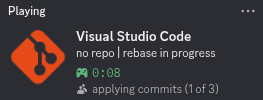
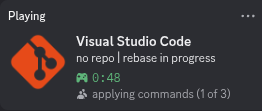
rp: fix rebase step count

diff --git a/lib/git.js b/lib/git.js
@@ -96,9 +96,11 @@ export function git_dir()
 
 export function git_rebase_backend(git)
 {
-	if (existsSync(`${git}/rebase-merge`))
+	if (existsSync(`${git}/rebase-merge/msgnum`) &&
+	    existsSync(`${git}/rebase-merge/end`))
 		return GIT_REBASE_MERGE
-	else if (existsSync(`${git}/rebase-apply/rebasing`))
+	else if (existsSync(`${git}/rebase-apply/rebasing/next`) &&
+		 existsSync(`${git}/rebase-apply/rebasing/last`))
 		return GIT_REBASE_APPLY
 }
 
@@ -106,11 +108,6 @@ export function git_rebase_step_merge(git)
 {
 	let msgnum = read_file(`${git}/rebase-merge/msgnum`)
 	let end = read_file(`${git}/rebase-merge/end`)
-
-	if (!msgnum)
-		msgnum = 0
-	if (!end)
-		end = 0
 
 	msgnum = Number(msgnum)
 	end = Number(end)
@@ -122,11 +119,6 @@ export function git_rebase_step_apply(git)
 {
 	let next = read_file(`${git}/rebase-apply/next`)
 	let last = read_file(`${git}/rebase-apply/last`)
-
-	if (!next)
-		next = 0
-	if (!last)
-		last = 0
 
 	next = Number(next)
 	last = Number(last)

diff --git a/lib/rp.js b/lib/rp.js
@@ -156,7 +156,10 @@ function resolve_rebase_step(rp)
 		steps = git_rebase_step_apply(rp.__git)
 
 	rp.party = { id: 'miku', size: steps }
-	rp.state = 'applying commit'
+	rp.state = 'applying command'
+
+	if (steps[1] > 1)
+		rp.state += 's'
 
 	rp.assets.large_image = 'MATERIALICON/git.png'
 }
